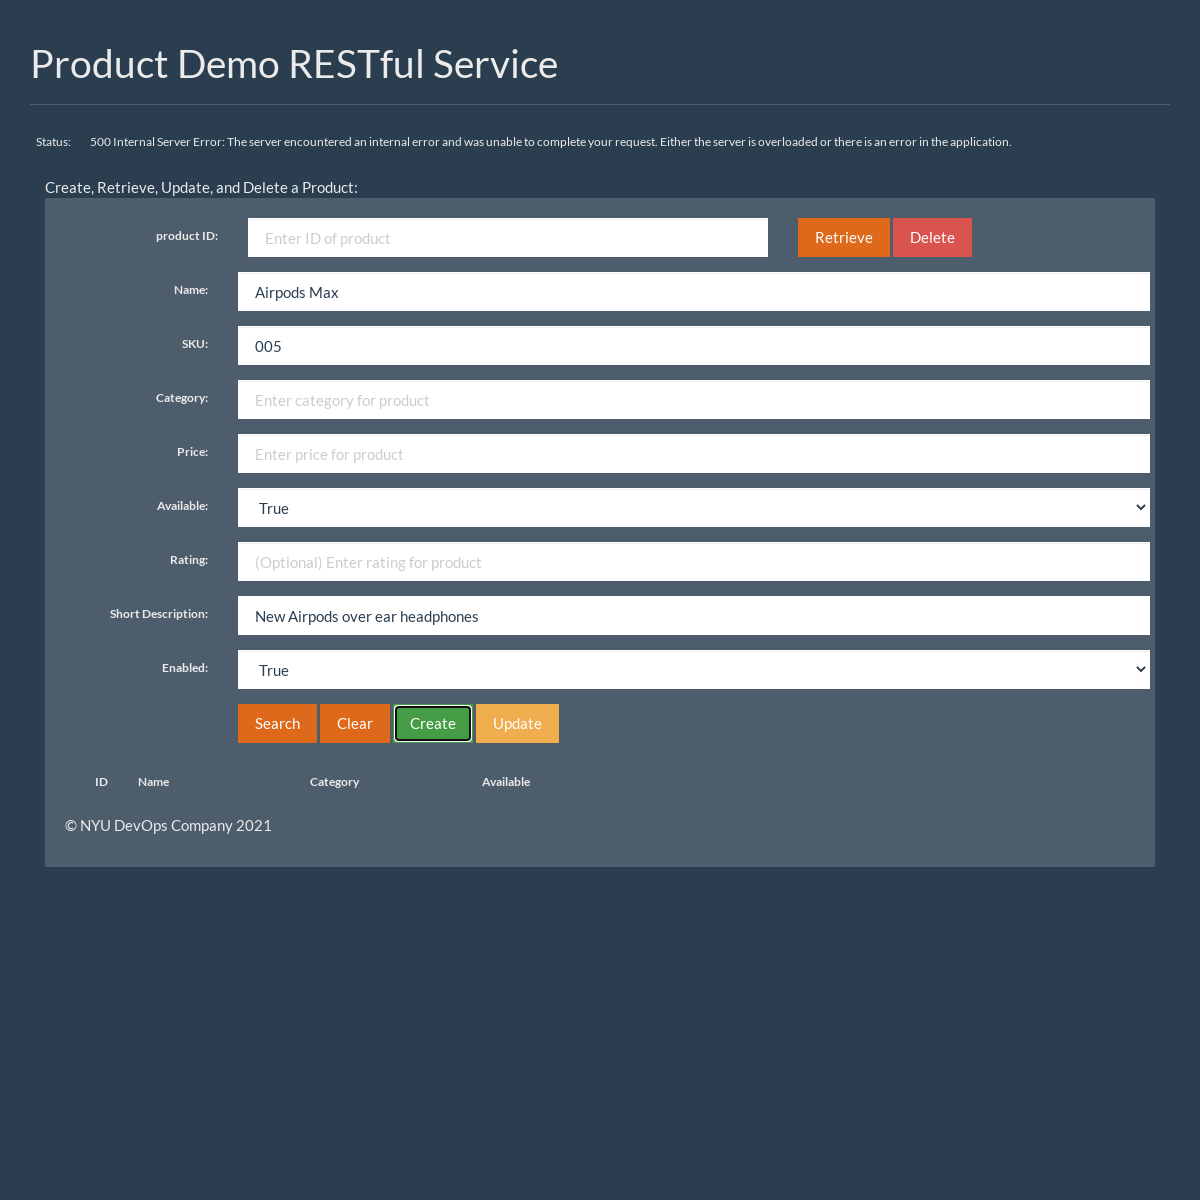
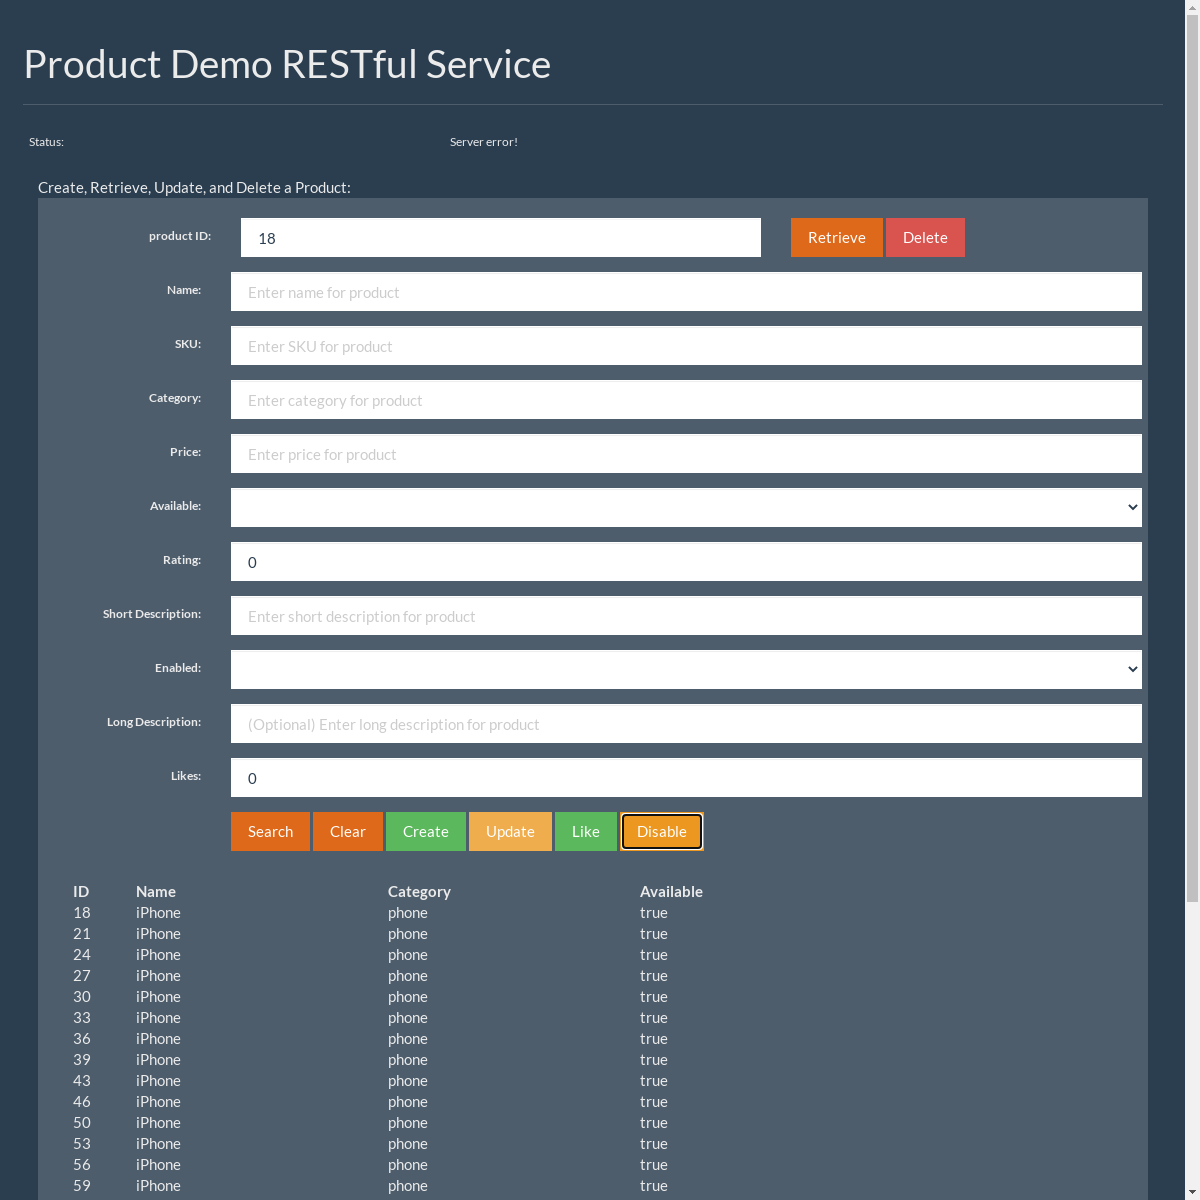
Add in UI and linkage for like and disable

diff --git a/service/static/index.html b/service/static/index.html
@@ -94,24 +94,26 @@
                   </select>
                 </div>
               </div>
-              <!-- <div class="form-group">
+              <div class="form-group">
                 <label class="control-label col-sm-2" for="product_long_description">Long Description:</label>
                 <div class="col-sm-10">
                   <input type="text" class="form-control" id="product_long_description" placeholder="(Optional) Enter long description for product">
                 </div>
-              </div> -->
-              <!-- <div class="form-group">
+              </div>
+              <div class="form-group">
                 <label class="control-label col-sm-2" for="product_likes">Likes:</label>
                 <div class="col-sm-10">
                   <input type="text" class="form-control" id="product_likes" placeholder="(Optional) Enter likes for product">
                 </div>
-              </div> -->
+              </div>
               <div class="form-group">
                 <div class="col-sm-offset-2 col-sm-10">
                   <button type="submit" class="btn btn-primary" id="search-btn">Search</button>
                   <button type="submit" class="btn btn-primary" id="clear-btn">Clear</button>
                   <button type="submit" class="btn btn-success" id="create-btn">Create</button>
                   <button type="submit" class="btn btn-warning" id="update-btn">Update</button>
+                  <button type="submit" class="btn btn-success" id="like-btn">Like</button>
+                  <button type="submit" class="btn btn-warning" id="disable-btn">Disable</button>
                 </div>
               </div>
           </div> <!-- form div -->

diff --git a/service/static/js/rest_api.js b/service/static/js/rest_api.js
@@ -196,6 +196,56 @@ $(function () {
     });
 
     // ****************************************
+    // Like a product
+    // ****************************************
+
+    $("#like-btn").click(function () {
+
+        var product_id = $("#product_id").val();
+
+        var ajax = $.ajax({
+            type: "PUT",
+            url: "/products/" + product_id + "/like",
+            contentType: "application/json",
+            data: '',
+        })
+
+        ajax.done(function(res){
+            clear_form_data()
+            flash_message("product has been Liked!")
+        });
+
+        ajax.fail(function(res){
+            flash_message("Server error!")
+        });
+    });
+
+    // ****************************************
+    // Disable a product
+    // ****************************************
+
+    $("#disable-btn").click(function () {
+
+        var product_id = $("#product_id").val();
+
+        var ajax = $.ajax({
+            type: "PUT",
+            url: "/products/" + product_id + "/disable",
+            contentType: "application/json",
+            data: '',
+        })
+
+        ajax.done(function(res){
+            clear_form_data()
+            flash_message("product has been Disabled!")
+        });
+
+        ajax.fail(function(res){
+            flash_message("Server error!")
+        });
+    });
+
+    // ****************************************
     // Clear the form
     // ****************************************
 
